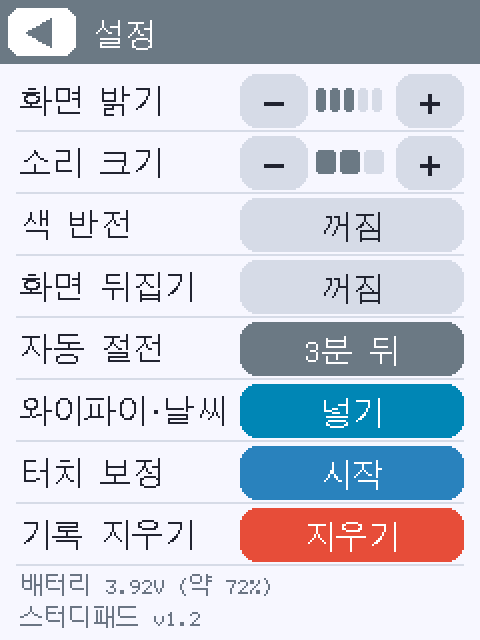
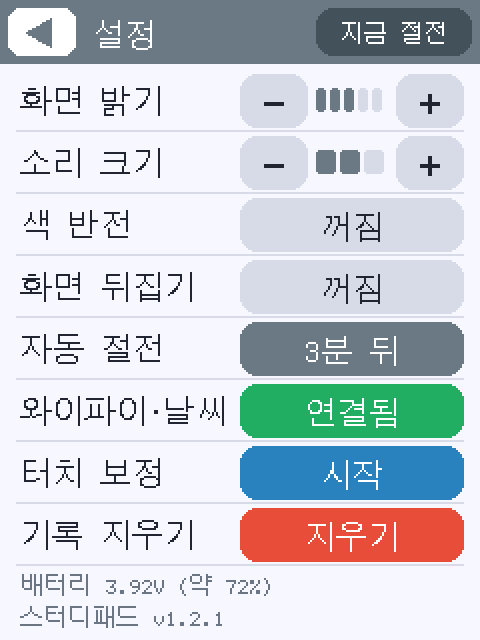
스터디패드 v1.2.2: 충전 중 표시, 지금 절전 버튼 (#12)
Claude-Session: https://claude.ai/code/session_012chGshV2ZSyrpWEJFZUDbW

Changed region(s): [[0.5, 0.5938, 0.9688, 0.6875], [0.6562, 0.0, 1.0, 0.0938]]

diff --git a/maker/studypad/index.html b/maker/studypad/index.html
@@ -387,6 +387,8 @@ footer { color: var(--muted); font-size: 14px; padding: 10px 0 40px; }
       <h2><span class="n">5</span>절전 · 배터리 · 기록</h2>
       <ul>
         <li><b>자동 절전</b>(처음 값 3분): 15초 전에 화면이 어두워지고, 시간이 되면 화면을 끄고 CPU를 멈춰요(가벼운 절전). 화면을 <b>꾹(0.5초쯤)</b> 누르거나 BOOT를 누르면 <b>하던 화면 그대로</b> 깨어나요. 깨우려고 누른 손가락은 버튼으로 치지 않아요. 터치 칩의 IRQ 선만 믿지 않고 절전 중에도 0.2초마다 아주 잠깐 깨어 화면이 눌렸는지 직접 확인해요(v1.2.1 — 학생 보드에서 터치로 안 깨어나던 문제 수정).</li>
+        <li><b>지금 절전</b>: 설정 화면 제목줄 오른쪽 버튼으로 바로 절전.</li>
+        <li><b>충전 중 표시</b>: 오른쪽 위 배터리 그림이 초록 + 노란 번개. 충전 상태 신호선이 ESP32에 이어져 있지 않아서 배터리 전압으로 짐작해요 — 꽂을 때 0.06V 넘게 갑자기 오름, 1분에 0.025V 넘게 꾸준히 오름, 4.19V 이상이면 충전 중으로 보고, 갑자기 내려가면 뺀 것으로 봐요. 다 찬 배터리에 꽂으면 늦게 나오거나 안 나올 수 있어요. 충전 중에는 배터리 부족 판단을 하지 않아요.</li>
         <li><b>배터리 부족</b>(3.45V 아래 30초): 기록을 저장하고 빨간 LED 깜빡임, 설정에 '충전 필요!'. <b>3.3V 아래</b>면 "배터리가 부족해요" 화면 → 저장 → 깊은 절전. 충전 후 BOOT로 다시 켜요.</li>
         <li><b>기록이 남는 것</b>: 단어 진도·오답 노트(답할 때마다), 지뢰찾기·반응 속도 최고 기록, 퀴즈 기록, 설정, 와이파이, 그림·메모(자동 저장), 터치 보정값. 절전 직전에도 앱마다 저장 함수를 불러요(<code>hwSetSaveHook</code>).</li>
         <li>배터리 전압은 핀 34에서 1/2로 나뉘어 들어온다고 보고 ×2 해요. 보드마다 다를 수 있으니 설정 화면의 전압이 실제(멀티미터)와 다르면 <code>hw.cpp</code>의 <code>batteryMilliVolts()</code>를 고쳐요.</li>
@@ -459,7 +461,7 @@ footer { color: var(--muted); font-size: 14px; padding: 10px 0 40px; }
     <section id="download">
       <h2><span class="n">9</span>파일 받기 · 라이선스</h2>
       <p>코드와 케이스 STL, 짧은 안내(README)를 한 번에 받습니다. 압축을 풀면 <code>스터디패드/</code> 폴더 안에 <code>code/StudyPad/</code>와 <code>models/</code>가 있어요.</p>
-      <p><a class="btn" href="studypad.zip" download>zip 받기 (코드 v1.2.1 + 케이스 STL, 약 2MB)</a></p>
+      <p><a class="btn" href="studypad.zip" download>zip 받기 (코드 v1.2.2 + 케이스 STL, 약 2MB)</a></p>
       <h3>코드 파일 안내</h3>
       <div class="tbl"><table>
         <thead><tr><th>파일</th><th>하는 일</th></tr></thead>
